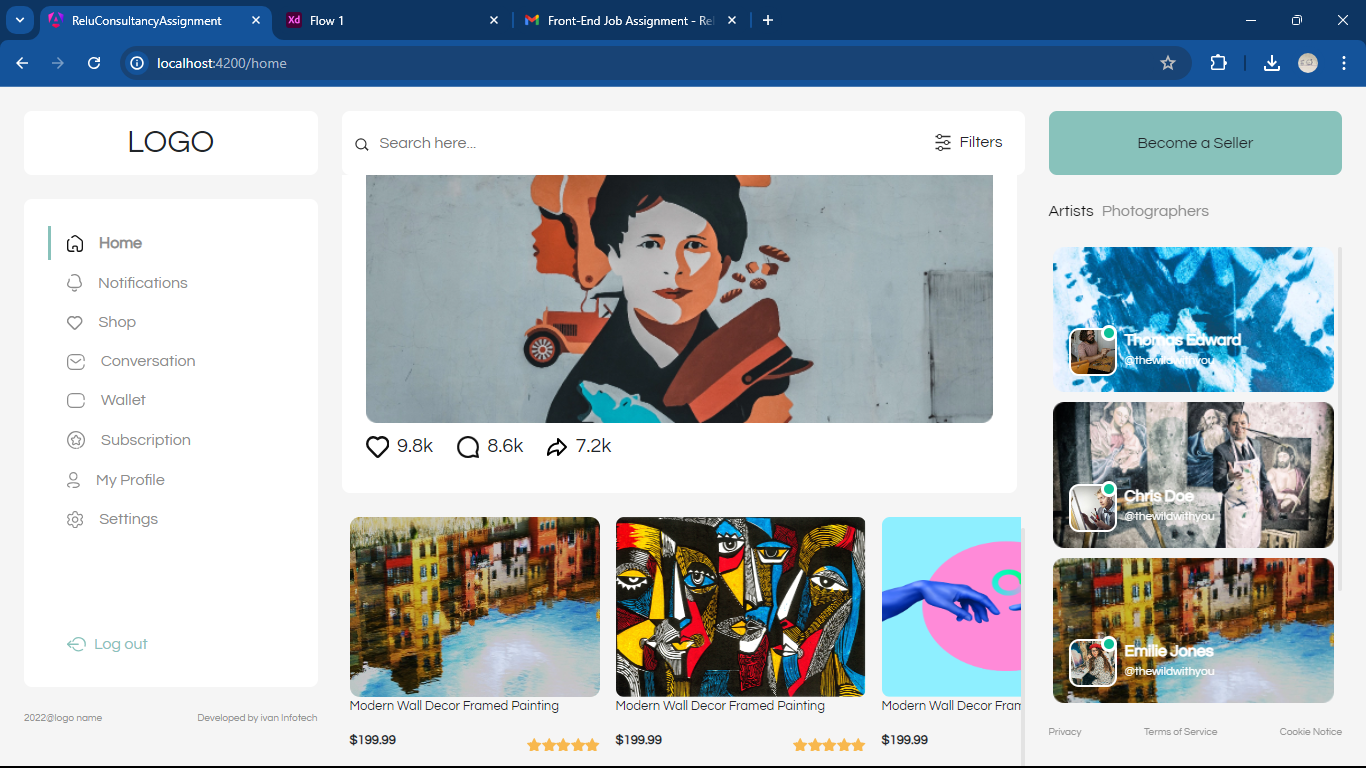
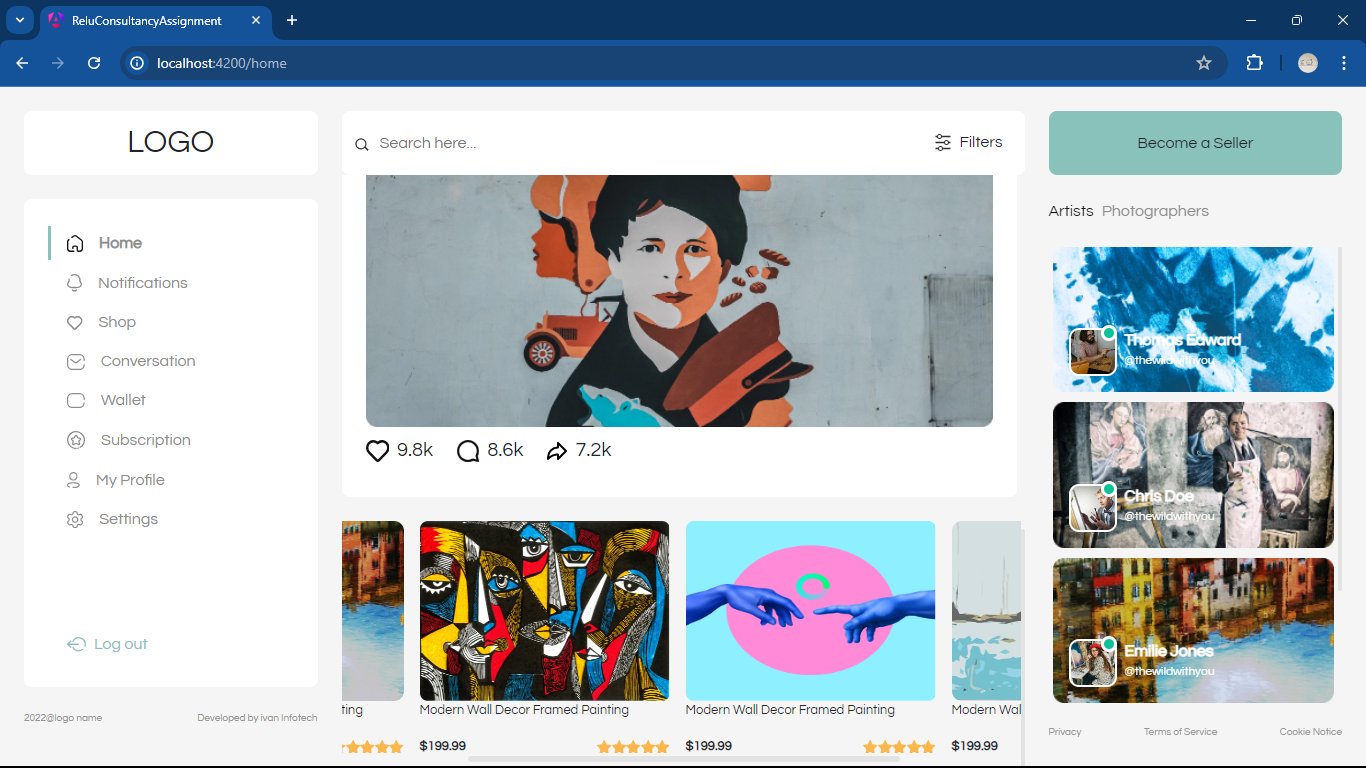
ui changes

diff --git a/src/app/components/home/home.component.html b/src/app/components/home/home.component.html
@@ -542,7 +542,7 @@
         </div>
       </div>
       <!-- art start -->
-      <div class="d-flex">
+      <div class="d-flex overflow-auto">
         <div class="art mx-2" *ngFor="let art of arts">
           <div>
             <img
@@ -554,7 +554,7 @@
           </div>
           <p class="font-size-13px">Modern Wall Decor Framed Painting</p>
           <div class="d-flex justify-content-between align-items-center">
-            <h3 class="font-size-13px font-weight-600">$199.99</h3>
+            <div class="font-size-13px font-weight-600">$199.99</div>
             <div class="d-flex align-items-center">
               <svg
                 xmlns="http://www.w3.org/2000/svg"
